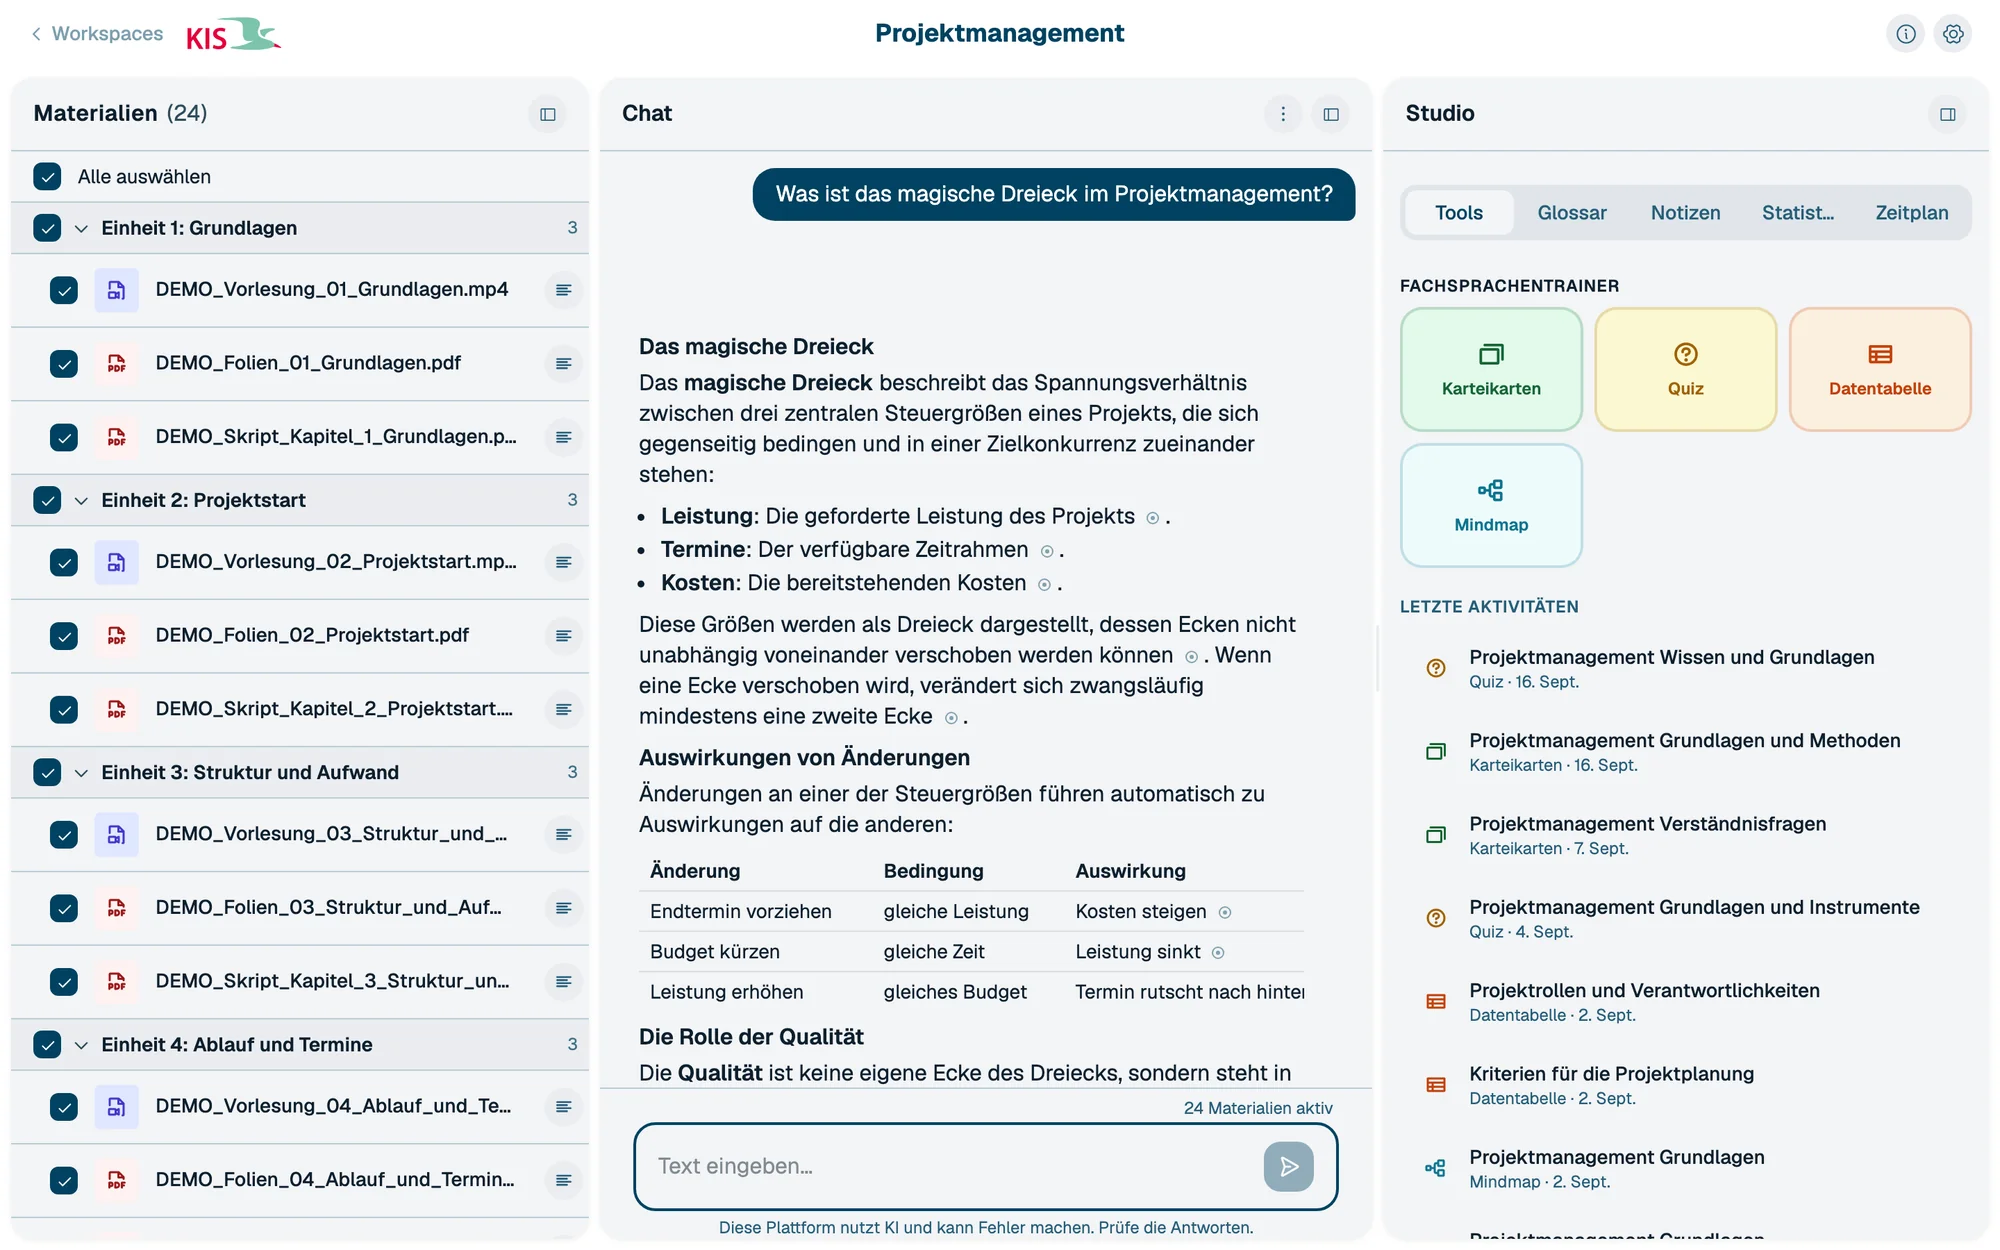
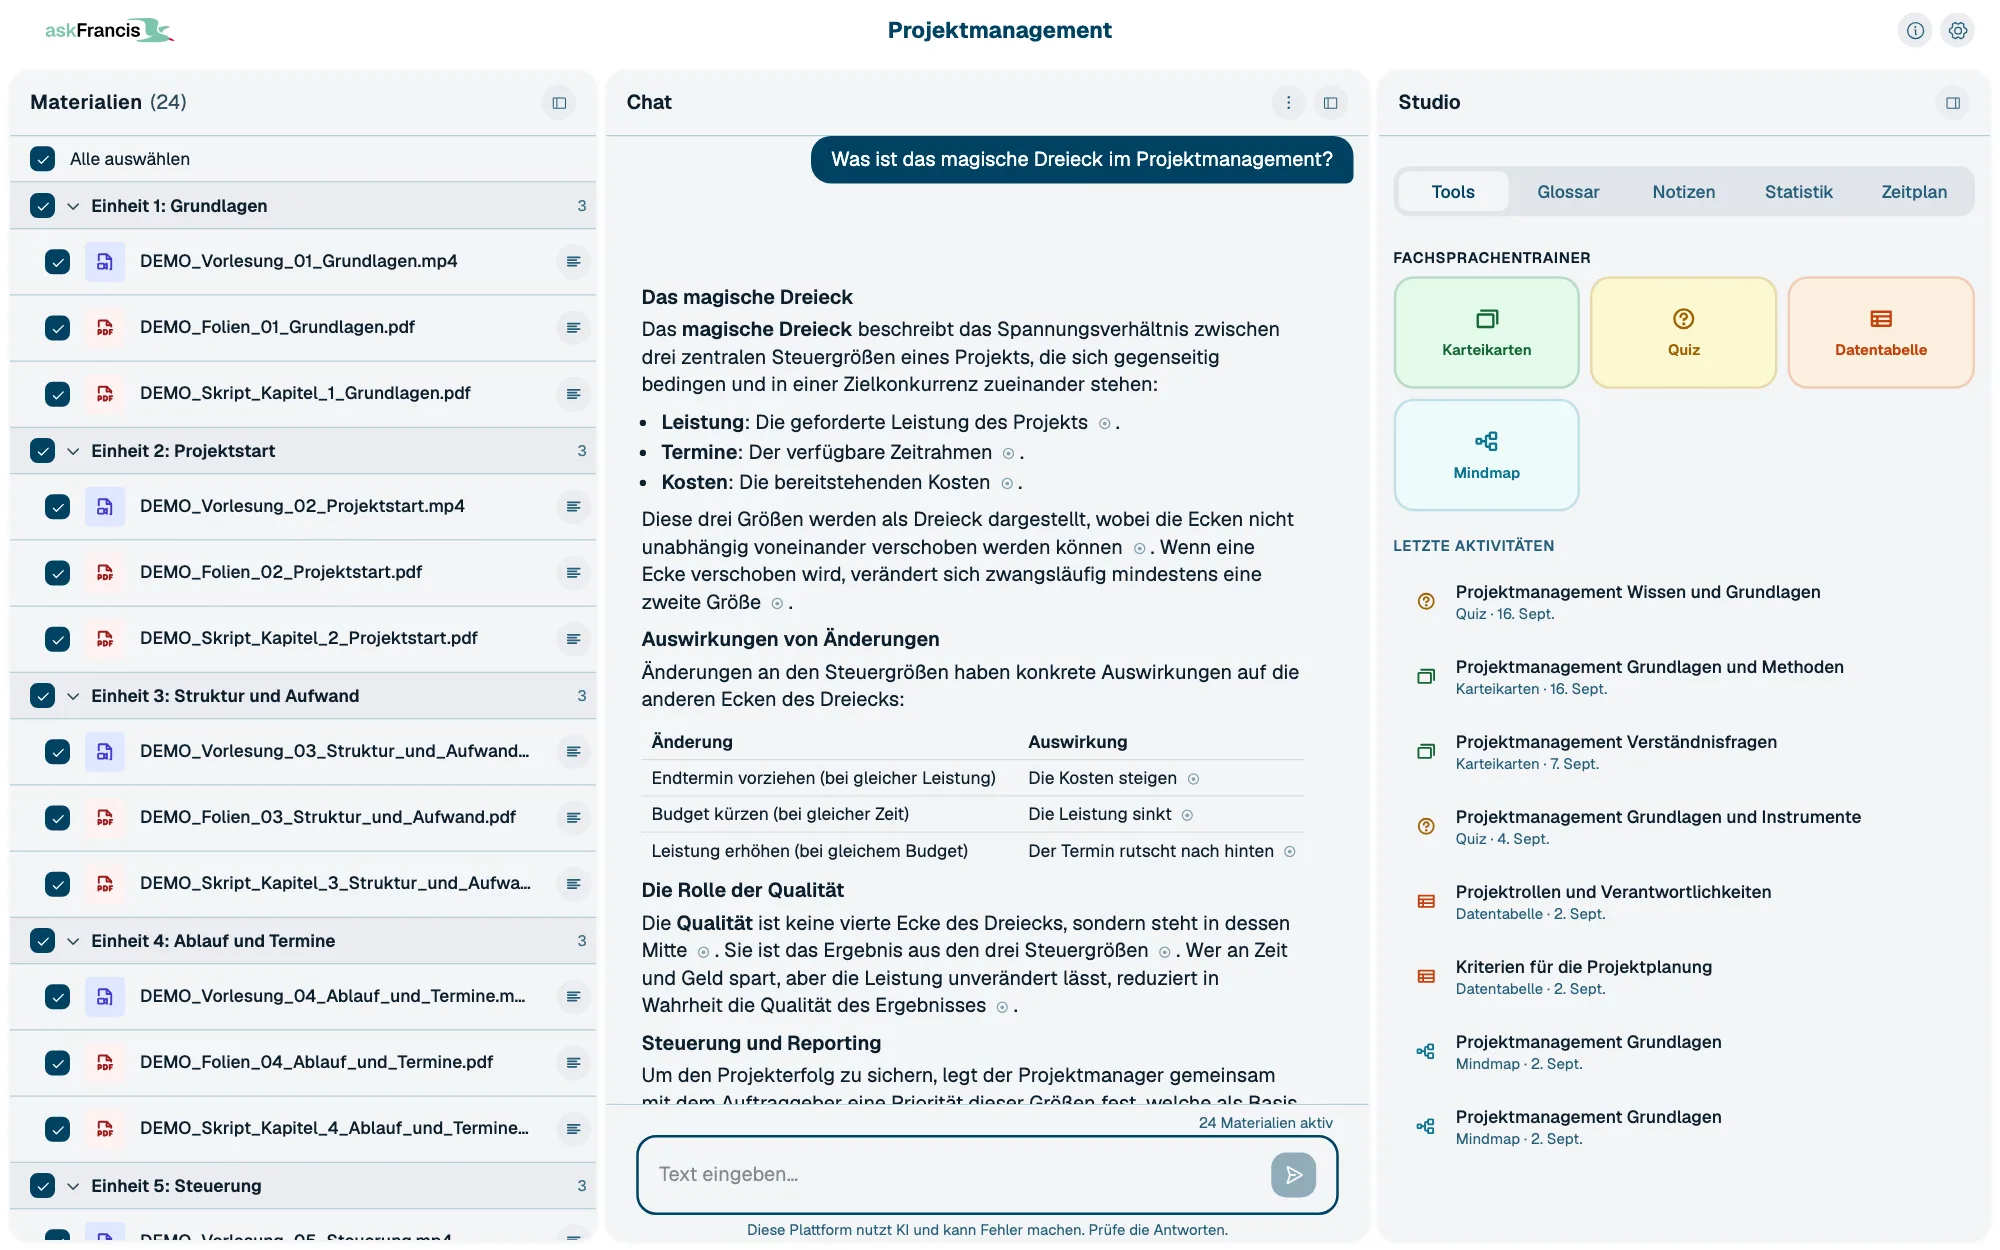
feat(landing): landing page names the platform askFrancis, hero picture shows the new wordmark
The platform panel and the FAQ name askFrancis, a new FAQ entry explains the name next to
the project KIS, the hero screenshot in both languages shows the askFrancis wordmark instead
of the old KIS logo. English texts say "an askFrancis account".

diff --git a/frontend/src/app/[locale]/_components/landing/InfoFaq.tsx b/frontend/src/app/[locale]/_components/landing/InfoFaq.tsx
@@ -6,7 +6,7 @@ import Band from "./Band";
 import { SectionHeading } from "./InfoSections";
 
 const GROUPS = [
-  { key: "project", items: ["what", "how", "state"] },
+  { key: "project", items: ["what", "platform", "how", "state"] },
   { key: "use", items: ["who"] },
   { key: "francis", items: ["sources", "names"] },
   { key: "data", items: ["dsgvo", "hosting"] },
